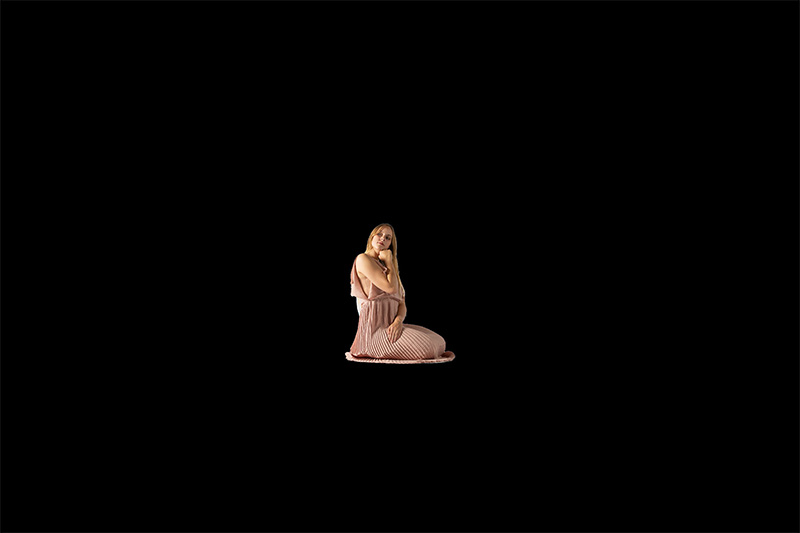
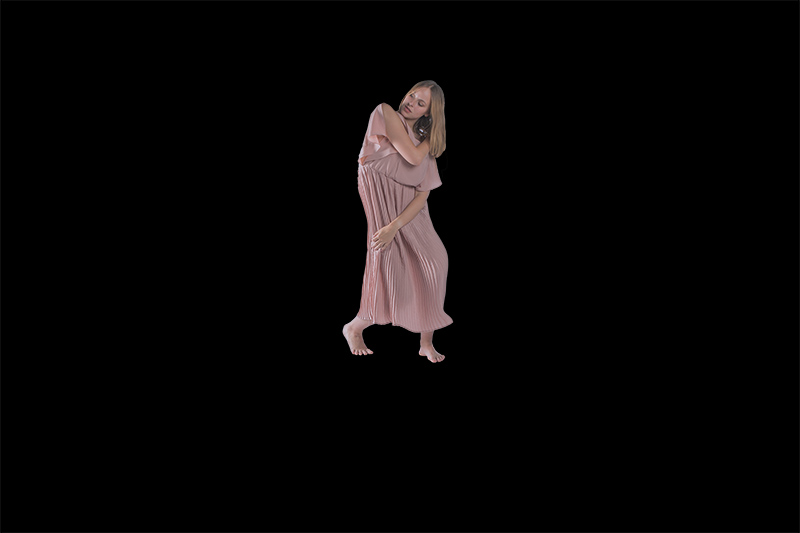
last minute fixes

Changed region(s): [[0.4062, 0.1501, 0.5938, 0.6904]]

diff --git a/vr.html b/vr.html
@@ -56,7 +56,7 @@
 					<div></div>
 				</div>
 			</div>
-			<button class="welcome__startbutton">Tap to Start</button>
+			<button class="welcome__startbutton">START</button>
 			<a href="javascript:document.location.reload()"
 			   class="welcome__reload">Problemen met laden?</a>
 		</div>
@@ -79,8 +79,7 @@
 	</section>
 
 	<section class="scene">
-		<a-scene stats
-				 shadow="type:pcf">
+		<a-scene shadow="type:pcf">
 			<!-- assets -->
 			<a-assets>
 				<a-asset-item alt="Main Scene"
@@ -199,7 +198,7 @@
 						  scale="1.7 1.7 1"
 						  geometry="primitive:plane;depth:0.1"
 						  video-texture="src: #dancer-video; colorkey: 0x000000"
-						  position="0 1.514 -13.28"></a-entity>
+						  position="0 1.580 -13.28"></a-entity>
 
 				<!-- spot op model -->
 				<!-- <a-entity id="spot-op-model"
@@ -210,11 +209,11 @@
 				</a-entity> -->
 
 				<a-entity id="spot-op-model"
-						  light="angle: 0; decay: 2; distance: 20; intensity: 0.00001; penumbra: 0.33; type: spot; castShadow: true"
+						  light="angle: 80; decay: 2; distance: 20; intensity: 0.00001; penumbra: 0.33; type: spot; castShadow: true"
 						  position="0 2.18285 -11"
 						  rotation="-25 0 0"
 						  animation="property: light.intensity; delay: 30000; dur: 2000; from: 0; to: 8;startEvents: scenestart"
-						  animation__angle="property: light.angle; delay: 30000; dur: 3000; from: 5; to: 35;startEvents: scenestart"></a-entity>
+						  animation__angle="property: light.angle; delay: 30000; dur: 3000; from: 80; to: 35;startEvents: scenestart"></a-entity>
 
 				<!-- sfeerlicht bij intro -->
 				<a-curve id="lighttrack-left"
@@ -227,7 +226,7 @@
 				</a-curve>
 				<a-entity Xgeometry="primitive:box"
 						  Xmaterial="color:white;shader:flat"
-						  alongpath="delay: 15000; dur: 20000; curve: #lighttrack-left;  startEvents: scenestart"
+						  alongpath="delay: 15000; dur: 20000; play:false;resetonplay:true; curve: #lighttrack-left;  loop:false; startEvents: scenestart"
 						  animation__fadein="delay: 8000; dur: 1000; property: light.intensity;  from: 0; to: 2; startEvents: scenestart"
 						  animation__fadeout="delay: 30000; dur: 1000;  property: light.intensity; from: 2; to: 0; startEvents: scenestart"
 						  light="type: spot; castShadow: true; intensity: 0; angle: 40; decay: 0.58;

diff --git a/css/main.css b/css/main.css
@@ -3,7 +3,8 @@ html, body {
 	padding: 0;
 	background: black;
 	color: white;
-	font-family: 'Lucida Sans', 'Lucida Sans Regular', 'Lucida Grande', 'Lucida Sans Unicode', Geneva, Verdana, sans-serif;
+	/* font-family: 'Lucida Sans', 'Lucida Sans Regular', 'Lucida Grande', 'Lucida Sans Unicode', Geneva, Verdana, sans-serif; */
+	font-family: 'Courier New', Courier, monospace;
 }
 
 .intro {
@@ -15,7 +16,8 @@ html, body {
 	z-index: 10;
 	width: 100%;
 	height: 100%;
-	background: black;
+	background: url('../assets/images/back.jpg') no-repeat;
+	background-size: cover;
 }
 
 .countdown {
@@ -26,7 +28,8 @@ html, body {
 	bottom: 0;
 	display: none;
 	z-index: 10;
-	background: black;
+	background: url('../assets/images/back.jpg') no-repeat;
+	background-size: cover;
 }
 
 .scene {
@@ -73,13 +76,38 @@ html, body {
 
 .welcome__startbutton {
 	font-size: 3em;
-	color: black;
-	background: white;
-	border: 2px solid transparent;
+	color: cyan;
+	text-shadow: 0px 0px 4px cyan;
+	box-shadow: 0px 0px 4px cyan;
+	background: transparent;
+	border: 4px solid cyan;
 	padding: 30px;
 	display: none;
 	margin: 0 auto;
 	border-radius: 2px;
+	transition: text-shadow 500ms, box-shadow 500ms;
+	animation: glow 600ms alternate infinite;
+}
+
+@keyframes glow {
+	0% {
+		text-shadow: 0px 0px 4px cyan;
+		box-shadow: 0px 0px 4px cyan;
+	}
+	100% {
+		text-shadow: 0px 0px 13px cyan;
+		box-shadow: 0px 0px 13px cyan;
+	}
+}
+
+.welcome__startbutton:hover {
+	text-shadow: 0px 0px 20px cyan;
+	box-shadow: 0px 0px 20px cyan;
+}
+
+.welcome__startbutton:active {
+	text-shadow: 0px 0px 30px cyan;
+	box-shadow: 0px 0px 30px cyan;
 }
 
 .welcome__reload {
@@ -96,12 +124,6 @@ html, body {
 
 .welcome--load-complete .welcome__loadstatus {
 	display: none;
-}
-
-.welcome__startbutton:active {
-	background: black;
-	color: white;
-	border: 2px solid white;
 }
 
 .welcome--load-complete .welcome__startbutton {

diff --git a/scripts/aframe-alongpath-component.min.js b/scripts/aframe-alongpath-component.min.js
@@ -58,19 +58,20 @@
 					play: { default: false },
 					startEvents: { default: null }
 				},
-				multiple:true,
+				multiple: true,
 
 				init: function() {
 					// We have to fetch curve and triggers manually because of an A-FRAME ISSUE
 					// with Property-Type "Selector" / "SelectorAll": https://github.com/aframevr/aframe/issues/2517
 
-					if(this.data.startEvents) this.el.addEventListener( this.data.startEvents, () =>{
-						this.data.play = true;
-					} );
+					if (this.data.startEvents)
+						this.el.addEventListener(this.data.startEvents, () => {
+							this.data.play = true;
+						});
 				},
 
-				stateName: function( name ) {
-					return name + '-' + (this.curve.id||'general');
+				stateName: function(name) {
+					return name + '-' + (this.curve.id || 'general');
 				},
 
 				update: function(oldData) {
@@ -89,6 +90,7 @@
 				reset: function() {
 					// Reset to initial state
 					this.interval = 0;
+					this.el.object3D.position.copy(this.initialPosition); // hackhack: kevin: geen idee of dit werkt, maar verwijder als multiple animaties raar doen...
 
 					this.el.removeState(this.stateName('endofpath'));
 					this.el.removeState(this.stateName('moveonpath'));
@@ -146,7 +148,7 @@
 								// so restart here.
 								this.el.emit('movingended');
 								this.interval = this.data.delay;
-							} else if( i > 0 ) {
+							} else if (i > 0) {
 								// skip the === 0 case to allow multiple animations.
 								// We are starting to move or somewhere in the middle of the path…
 								if (!this.el.is(this.stateName('moveonpath'))) {

diff --git a/css/overlay.css b/css/overlay.css
@@ -1,7 +1,7 @@
 :root {
 	--scalefactor: 1.3;
-	--photo-width: calc( 600px * var(--scalefactor));
-	--photo-height: calc( 400px * var(--scalefactor));
+	--photo-width: calc( 800px * var(--scalefactor));
+	--photo-height: calc( 533px * var(--scalefactor));
 	--blendmode: screen;
 	--facX: 0;
 	--facY: 0;
